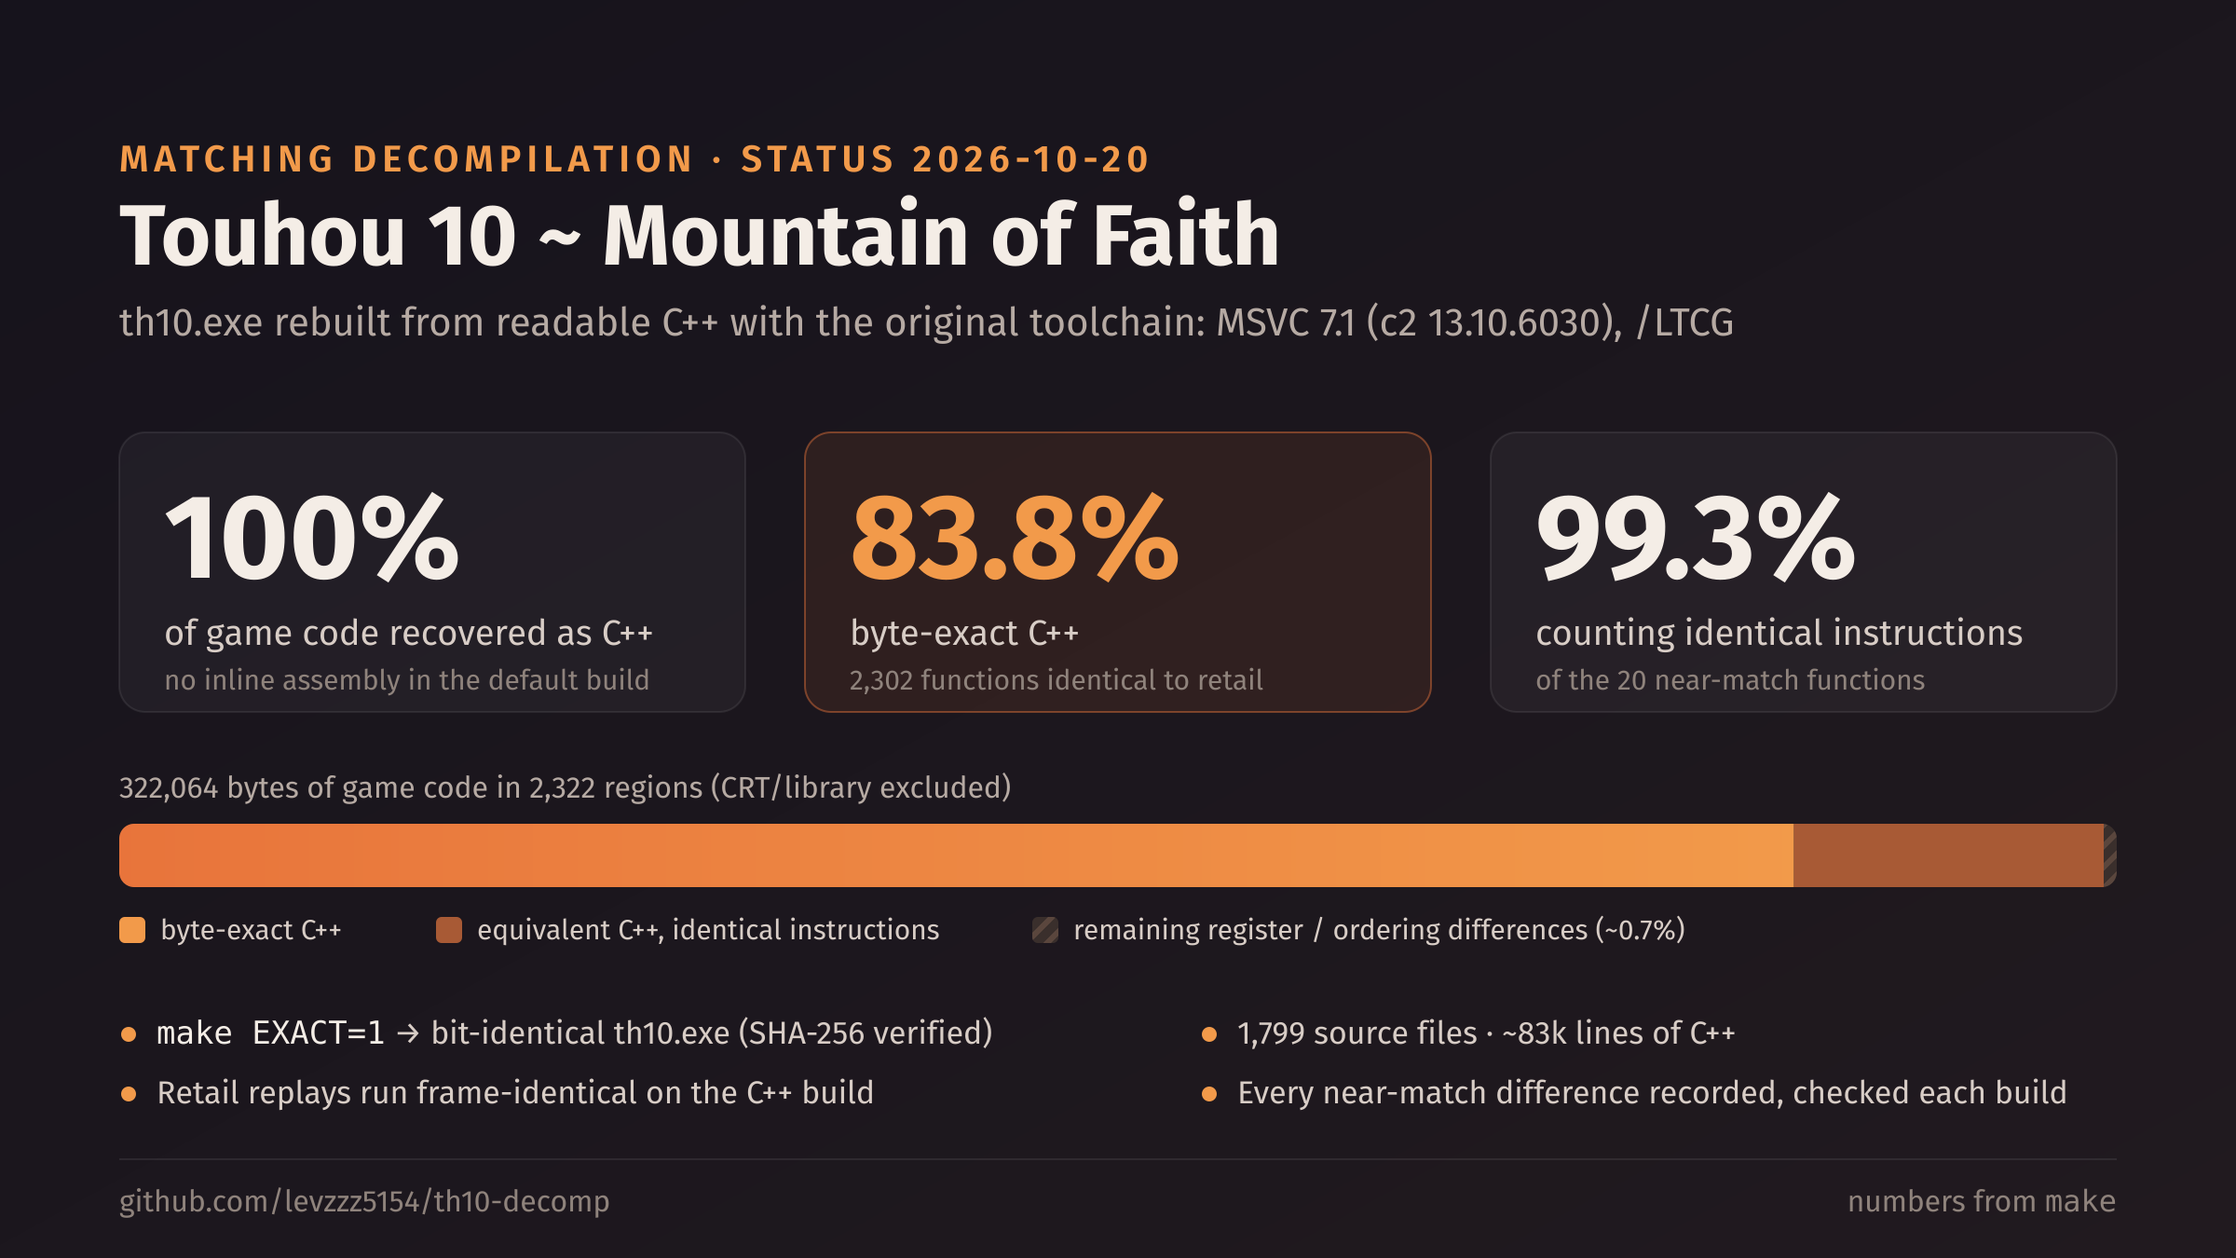
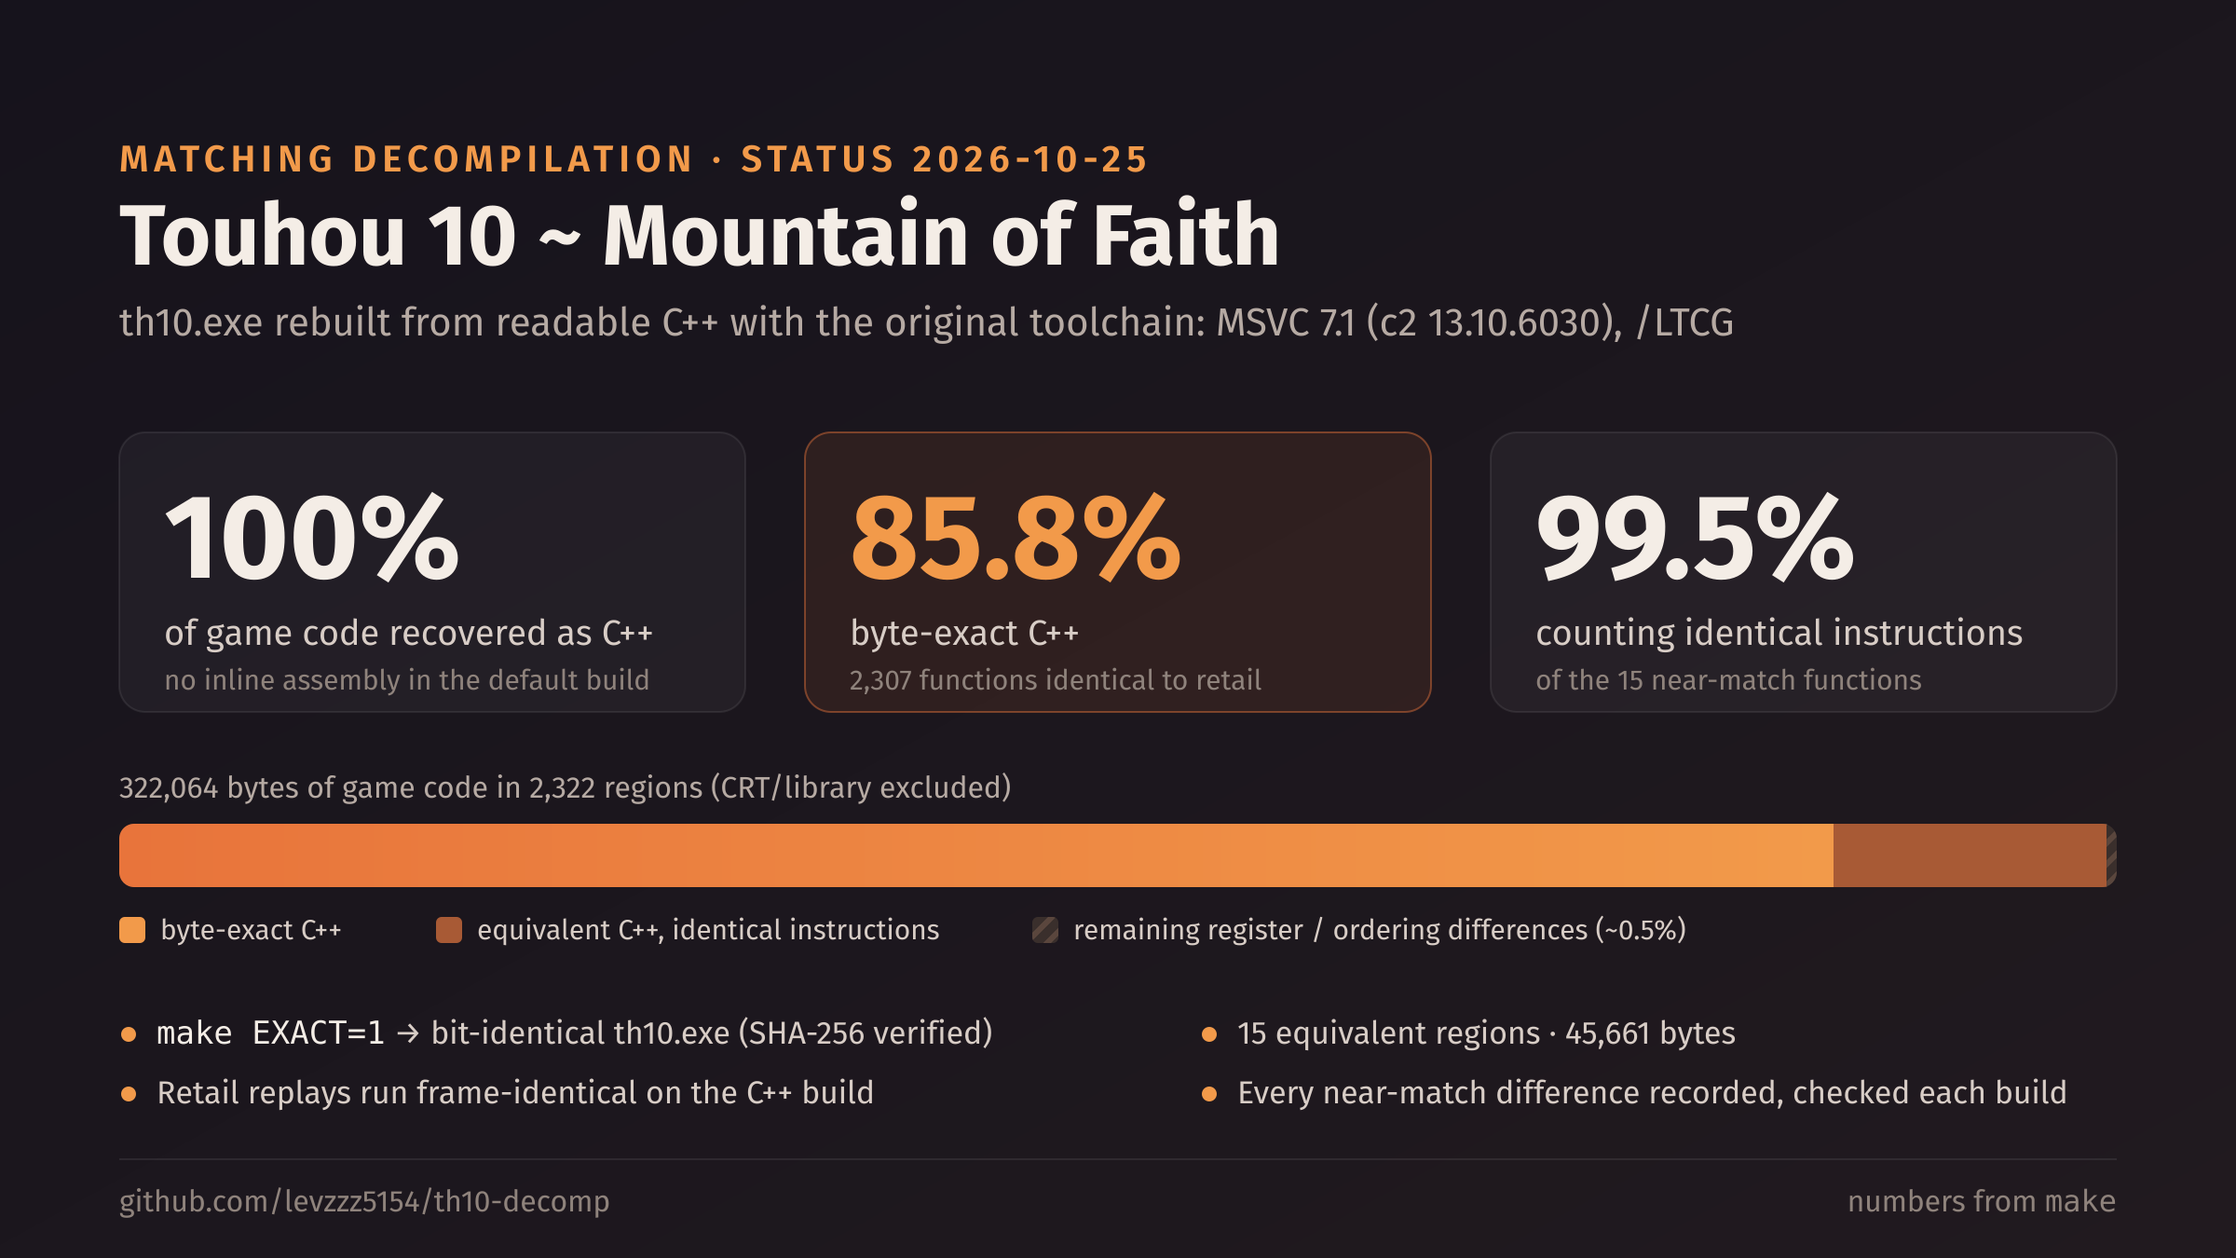
Refresh recovery status and preserve name-table compiler research

diff --git a/matching2/reference/compiler_traces/regalloc/trace_riscify.py b/matching2/reference/compiler_traces/regalloc/trace_riscify.py
@@ -1,0 +1,138 @@
+# usage: trace_riscify.py cmds.json out.txt FUNCTION_NAME_SUBSTRING
+# Dump what c2.dll 13.10.6030's Riscify pass sees for one function: at Riscify
+# entry every block's instruction list (opcode, register/memory operands), then
+# each GetReg call (PrevRegUsed, live set) and the register it returns. Riscify
+# walks each block backwards and GetReg is round-robin from PrevRegUsed (reset
+# per block), so a scratch register that differs from retail means the
+# instruction list or the live set differs. Addresses: see
+# reference/recovery_notes/animation_register_004489d0_riscify_2026_10_03.md.
+# cmds.json comes from ../capture_equivalent.py or ../scheduler/capture_link.py.
+import subprocess, json, re, sys
+from pathlib import Path
+sys.path.insert(0, '/home/levzzz/Games/th10Decomp')
+from matching2.tools.common.wine import DEFAULT_TOOLKIT, compiler_environment
+from matching2.tools.common.wine import winpath
+cmds = json.load(open(sys.argv[1])); out = Path(sys.argv[2]).resolve(); target = sys.argv[3]
+command = next(c for c in cmds if '/BASE:0x400000' in c)
+args = [('/OUT:' + winpath(out.with_suffix('.exe')) if a.startswith('/OUT:') else
+         '/MAP:' + winpath(out.with_suffix('.map')) if a.startswith('/MAP:') else a) for a in command[1:]]
+env = compiler_environment(DEFAULT_TOOLKIT)
+p = subprocess.Popen(['winedbg', '--gdb', '--no-start', *args], stdout=subprocess.PIPE, stderr=subprocess.STDOUT,
+                     text=True, env=env)
+port = None; lines = []
+for line in p.stdout:
+    lines.append(line)
+    m = re.search(r'target remote localhost:(\d+)', line)
+    if m: port = m[1]; break
+if not port: raise RuntimeError(''.join(lines))
+script = r'''import gdb, struct
+gdb.execute('set pagination off'); gdb.execute('set confirm off')
+gdb.execute('target remote localhost:PORT')
+out = open('OUTPUT', 'w')
+inf = gdb.selected_inferior()
+def u32(a): return struct.unpack('<I', inf.read_memory(a, 4).tobytes())[0]
+def reg(n): return int(gdb.parse_and_eval('$' + n)) & 0xffffffff
+REGS = {1:'eax',2:'ecx',3:'edx',4:'ebx',5:'esp',6:'ebp',7:'esi',8:'edi'}
+def cstr(a, n=160):
+    b = b''
+    for i in range(0, n, 8):
+        try: chunk = inf.read_memory(a + i, 8).tobytes()
+        except Exception:
+            chunk = b''
+            for j in range(8):
+                try: chunk += inf.read_memory(a + i + j, 1).tobytes()
+                except Exception: break
+        b += chunk
+        if b'\0' in chunk or len(chunk) < 8: break
+    return b.split(b'\0')[0]
+names = {}
+def fname():
+    fn = u32(0x108ab128)
+    key = (fn, u32(fn) if fn else 0)
+    if key not in names:
+        try:
+            pp = u32(key[1] + 4)
+            s = cstr(pp)
+            if s and all(32 <= x < 127 for x in s): names[key] = s.decode()
+            else: names[key] = cstr(u32(pp)).decode()
+        except Exception: return '?'
+    return names[key]
+def raw(a, n=0x40):
+    try: return ' '.join('%08x' % x for x in struct.unpack('<%dI' % (n // 4), inf.read_memory(a, n).tobytes()))
+    except Exception: return '?'
+def s32(x): return struct.unpack('<i', struct.pack('<I', x))[0]
+def regname(sym):
+    try: r = u32(sym + 0x1c)
+    except Exception: return '?'
+    return REGS.get(r, 'v%x' % sym)
+def operand_list(first):
+    # memory operands are followed in the list by their base/index operands
+    items = []; o = first; j = 0
+    while o > 0x10000 and j < 10:
+        try:
+            kind = u32(o + 8) & 0xff; code = u32(o + 4)
+        except Exception:
+            items.append('?'); break
+        if kind == 1 or kind == 2: items.append(regname(u32(o + 0x1c)))
+        elif kind == 6 or kind == 5:
+            items.append('%s[%+d]' % ('&' if kind == 5 else '', s32(u32(o + 0x30))))
+        elif kind == 7: items.append('#%x' % u32(o + 0x1c))
+        else: items.append('k%x/%x' % (kind, code))
+        o = u32(o); j += 1
+    return ' '.join(items)
+def dump_function(fn, tag):
+    first = u32(u32(fn + 8)); blk = first; b = 0
+    while blk > 0x10000 and b < 400:
+        ins, last = u32(blk + 0x1c), u32(blk + 0x20)
+        out.write('%s BLOCK %x\n' % (tag, blk))
+        k = 0
+        while ins > 0x10000 and k < 600:
+            op = u32(ins + 4)
+            if op not in (0x2c4, 0x2c5):
+                out.write('  %x op=%x  D: %s  S: %s\n' % (ins, op, operand_list(u32(ins + 0x2c)), operand_list(u32(ins + 0x28))))
+            if ins == last: break
+            ins = u32(ins); k += 1
+        blk = u32(blk); b += 1
+        if blk == first: break
+    out.flush()
+gdb.execute('hbreak *0x107ad4fe')
+armed = False
+for event in range(200000):
+    try: gdb.execute('continue')
+    except gdb.error: break
+    try:
+        pc = reg('pc')
+    except Exception: break
+    if pc not in (0x107ad4fe, 0x107ad5fb, 0x107ad33b, 0x107ad44e): break
+    if not armed:
+        gdb.execute('delete breakpoints')
+        for a in (0x107ad4fe, 0x107ad5fb, 0x107ad33b, 0x107ad44e): gdb.execute('break *0x%x' % a)
+        armed = True
+    try:
+        name = fname()
+        if 'TARGET' not in name: continue
+        if pc == 0x107ad4fe:
+            fn_now = u32(reg('esp') + 4)
+            out.write('RISCIFY %s\n' % name); dump_function(fn_now, 'IN')
+        elif pc == 0x107ad5fb:
+            out.write('RISCIFY_EXIT\n'); dump_function(fn_now, 'OUT')
+        elif pc == 0x107ad33b:
+            out.write('GETREG prev=%x live=%s regs=%s stack=%s\n' % (u32(0x108b2238), raw(u32(u32(reg('esp') + 4)), 8),
+                      ' '.join('%s=%x' % (r, reg(r)) for r in ('ebx', 'esi', 'edi', 'ebp')), raw(reg('esp'), 0x30)))
+        elif pc == 0x107ad44e:
+            out.write('  -> %d\n' % reg('esi')); out.flush()
+    except Exception as e:
+        out.write('ERR %s\n' % e); out.flush()
+out.close()
+try: gdb.execute('kill')
+except gdb.error: pass
+'''.replace('PORT', port).replace('OUTPUT', str(out)).replace('TARGET', target)
+gdb_script = out.with_suffix('.gdb.py')
+gdb_script.write_text(script)
+try:
+    r = subprocess.run(['gdb', '-q', '-batch', '-x', str(gdb_script)], capture_output=True, text=True, timeout=3000)
+    out.with_suffix('.gdb.log').write_text(r.stdout + r.stderr)
+finally:
+    try: p.wait(timeout=20)
+    except Exception: p.kill()
+print('lines', len(out.read_text().splitlines()) if out.exists() else 0)

diff --git a/matching2/reference/recovery_notes/ecl_name_table_00450220_shift_lea_2026_10_25.md b/matching2/reference/recovery_notes/ecl_name_table_00450220_shift_lea_2026_10_25.md
@@ -1,0 +1,98 @@
+# Name table 0x00450220: the last 4 instructions are a shl/lea decision (2026-10-25)
+
+Status: equivalent, 194/198. Retail keeps `name_count` in EDX in the head
+block (`mov edx,[ebx+8]` early, `add edx,eax`, `mov eax,edx`, store); the
+model uses ECX.
+
+## Mechanism (traced, c2.dll 13.10.6030)
+
+The head block `name_count += sub_count; size = name_count * 8;` reaches
+Riscify as `add [ebx+8],eax; mov eax,[ebx+8]; lea eax,[eax*8]; push eax; call;
+add esp; cmp ebp,0`. Riscify walks backwards and calls `GetReg` for every
+opcode whose flag word (table 0x1086B580) has bit 0x400: push, inc/dec and the
+arithmetic/shift group 0x23..0x34 (shl is 0x2A), but not mov, lea or movzx.
+Round robin from the start of the block: cmp -> ECX (EAX is live out),
+add esp -> EDX, push -> ESI, then the split `add [ebx+8]` wraps to ECX.
+Retail has one more call in between: a `shl` instead of the `lea`
+(shl -> ECX, then the add gets EDX).
+
+Forcing the decision with gdb (`build/experiments/goal_2026_10_25/ent/riscify/force_shl.py`,
+jump from 0x1073FBE9 to 0x10735446 for that instruction) gives 198/198, so
+this is the only difference.
+
+The lowering of the IL shift (op 0x27A) at 0x1073FB90 keeps `shl` only when
+the destination is a temporary with a defining instruction (symbol +0x14) and
+the source is not a register symbol or is also such a temporary, or when the
+source and destination are the same symbol. Otherwise it emits `lea`. In the
+model the source is the Gopt value `s1a4` of `name_count + sub_count`
+(store-to-load forwarding of the reload; no defining instruction), so it is
+always `lea`.
+
+## Spellings that do not change it (all 194/198 or worse)
+
+Size spellings (`<< 3`, `* 8u`, `int`, `sizeof` first, `size <<= 3`,
+`size *= 8`, `(name_count += n) * 8`, `(name_count = name_count + n) * 8`,
+comma, scale variable, `__int64`, pointer arithmetic), type-punned stores and
+reads (`unsigned&`, `long*`, `char*` offset), statement orders, reusing `size`
+for the memcpy. Computing the size before the update (`(name_count + n) * 8`)
+moves the load to EDX but makes the sum a shared value (179/198).
+`_ReadWriteBarrier` between update and size stops the forwarding but moves
+the frame (116/198); a volatile read too (116/198).
+
+What is needed: a source form where the shifted value is a plain expression
+temporary or a memory operand at lowering time while the stored value is
+still forwarded by Riscify. Tracers: `reference/compiler_traces/regalloc/trace_riscify.py`
+(block lists at Riscify entry/exit and every GetReg), and in the experiment
+folder `trace_shiftlea.py` (IR at the shift decision), `trace_rmw.py`
+(IR at RMW formation, 0x10735E96), `watch_op.py` (writes to one IR field).
+
+## Address-taken locals (same day)
+
+Taking the address of `names`, `old` or `previous` (`Touch(&x)`, an empty
+`__forceinline` template) when its store sits between the two
+`files[file_count]->sub_count` reads gives 191/198: the add's `sub_count` is
+reloaded (the store to an address-taken local kills load availability), the
+stored sum is then not forwarded, the reload becomes a copy and the shift
+stays `shl` (retail's head order and EDX are back), but `sub_count` is loaded
+twice where retail loads it once. Every order that keeps one `sub_count` load
+(touch before `data`, after the update, a touched `count` local, `previous`
+assigned after the update) is forwarded again (194). `(void)&x` folds away.
+Address-taking `names` or `previous` through real helper calls
+(`TakeName(&names)`, `FreeTable(&previous)`) moves the frame and EBP
+(96..119/198). Sweeps: `ent/v16.py`..`ent/v24.py`; `eqdis.py` prints a
+variant's instruction diff against retail.
+
+## Why the index is a Gopt value (traced later the same day)
+
+The `lea` comes from the address-mode folder `FUN_1079987C` (c2.dll), which
+runs on the multiply-by-8 after its expansion at `FUN_107881F2` (the expansion
+inserts `s251 = s1a4; s250 = s251 * 8` because `s1a4` has no defining
+instruction). The folder walks back through defining instructions of type 4
+(`+0xA & 0xFFF == 4`): copies (0x263), adds (0x278/0x279) and scales (0x27A,
+0x27C). It absorbs the copy and stops at `s1a4` because `s1a4` has no
+definition, then dispatches form 0x255 (index*scale) through the table at
+0x10799D10 to 0x1073FB90. That emitter keeps `shl` only when the index
+operand is not kind 1, its symbol has a defining instruction, or it is the
+destination symbol. So retail's index was a plain expression temporary: most
+likely the reload of `name_count` as a load that Gopt did not see as
+redundant (the copy would then stop the walk at the load, and Riscify's own
+store-to-load forwarding gives retail's `mov eax,edx`).
+
+In the model the reload is redundant with the store: Gopt makes it a value
+`s1a3`, and the value propagation `FUN_1074D21E` (called per operand from
+`FUN_1074D2EE`) replaces it with the stored sum `s1a4`. The gate that allows
+it (0x1076C5EB..0x10774DCA) is: phase flag `DAT_10884020` set, the operand is
+a kind-3 symbol, its `+0x36 & 0x81` is clear and bit 2 of `+7` equals the
+value's. With a user variable (kind 4/5) instead, the propagation stops for
+anything but a compare, but the folder then stops at the variable, which has
+no definition either, so it is still `lea`.
+
+A store to an address-taken local between the update and the size does not
+make the reload non-redundant (`previous` touched after the update: 194; a
+touched `names` moves the frame: 109). `ent/v25.py` has those. Tools:
+`ent/riscify/trace_step.py` (instruction-level path of one c2 call),
+`ent/riscify/dump_at.py` (registers and memory at one breakpoint hit).
+
+Still open: a source form whose reload of `name_count` Gopt cannot forward
+(a kill between the store and the reload that emits no code), with one
+`sub_count` load.

diff --git a/HANDOFF.md b/HANDOFF.md
@@ -1,4 +1,4 @@
-# th10 decompilation handoff — 2026-10-18
+# th10 decompilation handoff — 2026-10-25
 
 ## Where the project stands
 
@@ -6,11 +6,22 @@
   (SHA-256 `2f14760b6fbbf575…`, verified after every promotion).
 - **100.0% of game code recovered** (322,064 of 322,064 bytes, 2,322 of 2,322
   regions); no inline assembly in the default build.
-- **83.8% byte-exact C++** (2,302 regions), **99.3%** counting the identical
-  instructions of the 20 equivalent regions.
+- **85.8% byte-exact C++** (2,307 regions), **99.5%** counting the identical
+  instructions of the 15 equivalent regions.
 - `callsite_abi.py`, the 129 unit tests and `git diff --check` pass.
 
 ![Project status](docs/status.png)
+
+## The 2026-10-25 campaign
+
+Five equivalent regions (6,381 bytes) were promoted to byte-exact C++:
+`ui_final_runtime`, `replay_frame_step`, `laser_circle_trim`,
+`laser_rectangle_split`, and `laser_circle_split`. Byte-exact coverage rose
+from 83.8% to 85.8%; 15 equivalent regions remain. The replay callback uses
+`_ReadWriteBarrier`; the laser cluster uses a C++ SetPolar context stand-in.
+Details and validation are in the dated recovery notes. The name-table
+investigation and Riscify tracer record further compiler findings without a
+promotion.
 
 ## The 2026-10-18 campaign (this document's previous edition was 2026-10-17)
 
@@ -38,31 +49,25 @@ show the original source's symbol/temp populations cannot be reconstructed by
 any honest spelling — those parks are recorded with the decoded mechanism and
 the ruled-out inventory, not left open.
 
-## Equivalent recoveries (20)
+## Equivalent recoveries (15)
 
-Current measurements; each layout's `note` points at its recovery note in
-`matching2/reference/recovery_notes/` (all have dated 2026-10-18 sections with
-the decoded mechanisms).
+Measurements from the 2026-10-25 build; each layout's `note` points at its
+recovery note in `matching2/reference/recovery_notes/`.
 
 | Address | Layout | Bytes | Identical | Recorded diffs | Swaps |
 | --- | --- | ---: | ---: | ---: | ---: |
-| 0x0040BD80 | `recovery_script_executor` | 1,568 | 429/444 | 8 | 0 |
-| 0x0040E770 | `enemy_execute` | 14,416 | 3,832/3,926 | 46 | 0 |
-| 0x0041DD80 | `laser_circle_trim` | 1,238 | 274/345 | 53 | 0 |
-| 0x0041EB00 | `laser_rectangle_split` | 1,171 | 315/316 | 1 | 0 |
-| 0x0041EFA0 | `laser_circle_split` | 1,108 | 236/302 | 47 | 0 |
-| 0x0041AFD0 | `item_update` | 2,320 | 549/601 | 33 | 0 |
+| 0x0040BD80 | `recovery_script_executor` | 1,568 | 431/444 | 7 | 0 |
+| 0x0040E770 | `enemy_execute` | 14,416 | 3,842/3,926 | 38 | 0 |
+| 0x0041AFD0 | `item_update` | 2,320 | 555/601 | 31 | 0 |
 | 0x00428F60 | `replay_runtime_bootstrap` | 1,344 | 387/389 | 3 | 0 |
 | 0x00429B60 | `replay_save` | 1,681 | 447/535 | 29 | 0 |
-| 0x0042A3E0 | `replay_frame_step` | 68 | 22/22 | 0 | 0 |
-| 0x0042CDF0 | `title_dispatcher` | 1,128 | 285/291 | 5 | 0 |
+| 0x0042CDF0 | `title_dispatcher` | 1,128 | 287/291 | 4 | 0 |
 | 0x00432CB0 | `name_entry_update` | 1,400 | 368/378 | 10 | 0 |
-| 0x00433EF0 | `ui_final_runtime` | 2,796 | 733/741 | 8 | 0 |
 | 0x00436DA0 | `font_atlas_fill_transparent` | 946 | 285/316 | 16 | 0 |
 | 0x0043C550 | `camera_shake` | 439 | 133/134 | 2 | 0 |
-| 0x0043EE30 | `anm_vm_tick` | 9,964 | 2,730/2,755 | 13 | 0 |
+| 0x0043EE30 | `anm_vm_tick` | 9,964 | 2,731/2,755 | 11 | 0 |
 | 0x004465B0 | `anm_texture_fill_transparent` | 1,463 | 369/499 | 73 | 0 |
-| 0x0044A190 | `joystick_poll` | 833 | 271/282 | 5 | 0 |
+| 0x0044A190 | `joystick_poll` | 833 | 274/282 | 4 | 0 |
 | 0x0044DF70 | `ecl_start_child` | 550 | 144/165 | 21 | 0 |
 | 0x0044E1A0 | `ecl_core_interpreter` | 7,020 | 1,769/1,790 | 10 | 9 |
 | 0x00450220 | `ecl_name_table` | 589 | 194/198 | 4 | 0 |

diff --git a/README.md b/README.md
@@ -6,7 +6,7 @@ into a byte-exact `th10.exe`.
 ![Project status](docs/status.png)
 
 Every game function is recovered as C++ and the default build contains no
-inline assembly. 83.8% of the game code bytes are byte-exact C++ (99.3%
+inline assembly. 85.8% of the game code bytes are byte-exact C++ (99.5%
 counting the identical instructions of the remaining functions). The rest are
 *equivalent recoveries* (below): C++ that differs from retail only by recorded,
 reviewed compiler choices. `make EXACT=1` swaps those back to their retail
@@ -29,7 +29,7 @@ The output is `matching2/build/msvc/th10.exe`. Every build ends with a line
 like
 
 ```
-Recovered: 100.0% of bytes (322,064 of 322,064), 100.0% of regions (2,322 of 2,322); byte-exact alone 83.8% of bytes, 99.3% counting identical instructions of equivalent regions
+Recovered: 100.0% of bytes (322,064 of 322,064), 100.0% of regions (2,322 of 2,322); byte-exact alone 85.8% of bytes, 99.5% counting identical instructions of equivalent regions
 ```
 
 The last share credits each equivalent region with its fraction of identical
